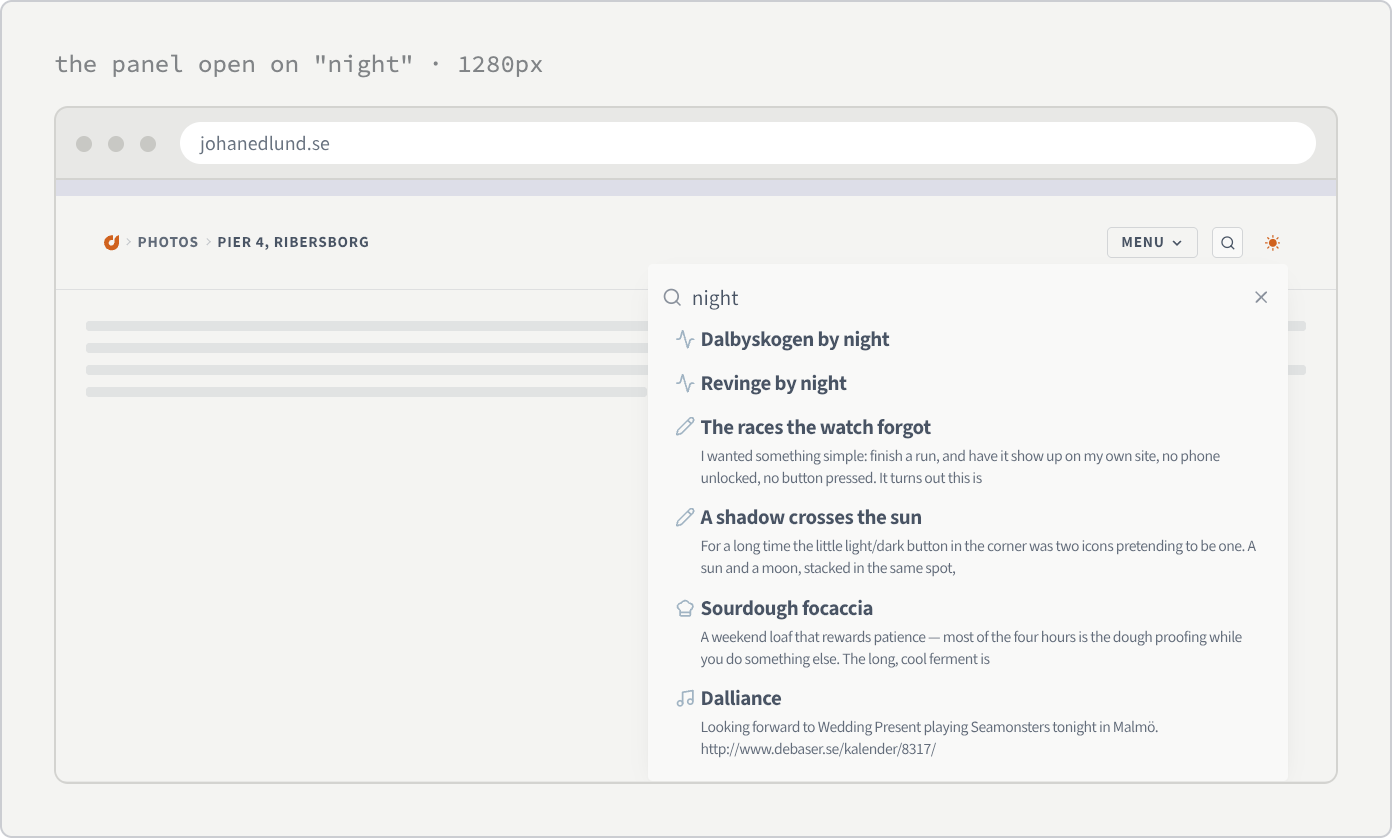
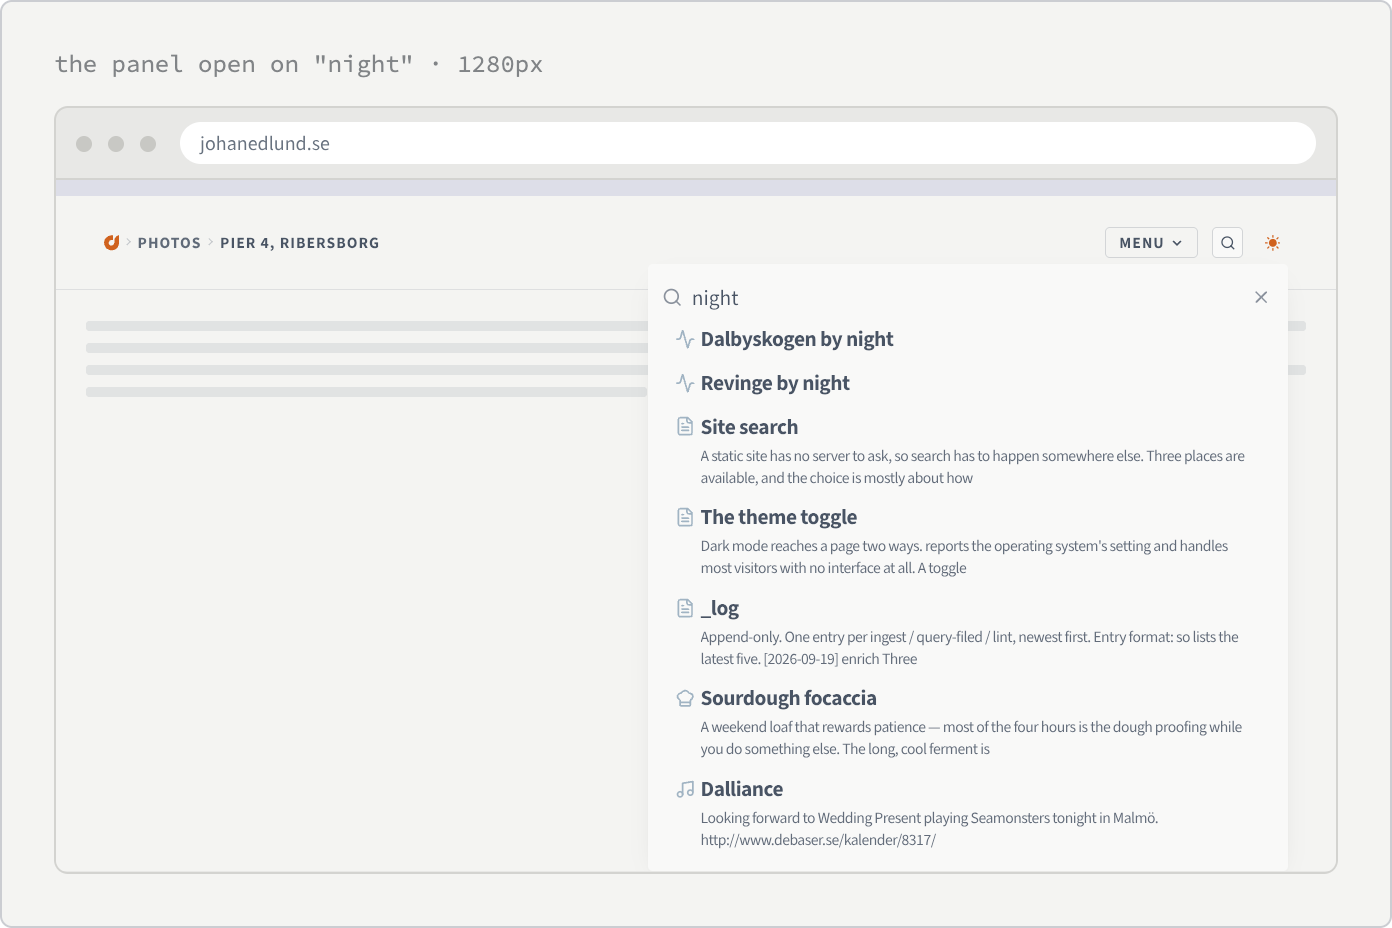
Re-shoot the site-search figure on hits that still exist
Two of the six sample rows were notes deleted yesterday, so the figure showed results for pages that are gone. The mockup now carries the real top hits for "night" read off /search.json today — seven, with three wiki pages where the two notes were — and the comment says it is a dated snapshot to re-read when a page is renamed or deleted.

Also corrects the count in the paragraph above it. 153 of the index has no body, and that has not changed; the total has, from 289 to 342, because the wiki joined the searchable types. So the bodyless share is now just under half rather than over it, and "the body-less majority" was no longer true.

diff --git a/src/wiki/_sources/site-search.html b/src/wiki/_sources/site-search.html
@@ -42,7 +42,7 @@
 <script>
   window.__mockupReady = false;
 
-  // The real top hits for "night", taken from a built /search.json — two of the six carry no body at all, which is the row shape the page is about.
+  // The real top hits for "night", read off a dev /search.json on 2026-09-20 — dev, so drafts are in it, which is how the earlier snapshot was taken too. Two of the seven carry no body at all, which is the row shape the page is about. ⚠ A snapshot: re-read it when a page here is renamed or deleted, then re-shoot.
   const HITS = [
     {
       "url": "/activities/2024-11-15-dalbyskogen-by-night/",
@@ -57,16 +57,22 @@
       "text": ""
     },
     {
-      "url": "/notes/the-races-the-watch-forgot/",
-      "title": "The races the watch forgot",
-      "type": "note",
-      "text": "I wanted something simple: finish a run, and have it show up on my own site, no phone unlocked, no button pressed. It turns out this is"
+      "url": "/wiki/site-search/",
+      "title": "Site search",
+      "type": "page",
+      "text": "A static site has no server to ask, so search has to happen somewhere else. Three places are available, and the choice is mostly about how"
     },
     {
-      "url": "/notes/a-shadow-crosses-the-sun/",
-      "title": "A shadow crosses the sun",
-      "type": "note",
-      "text": "For a long time the little light/dark button in the corner was two icons pretending to be one. A sun and a moon, stacked in the same spot,"
+      "url": "/wiki/the-theme-toggle/",
+      "title": "The theme toggle",
+      "type": "page",
+      "text": "Dark mode reaches a page two ways. reports the operating system's setting and handles most visitors with no interface at all. A toggle"
+    },
+    {
+      "url": "/wiki/log/",
+      "title": "_log",
+      "type": "page",
+      "text": "Append-only. One entry per ingest / query-filed / lint, newest first. Entry format: so lists the latest five. [2026-09-19] enrich Three"
     },
     {
       "url": "/recipes/sourdough-focaccia/",

diff --git a/src/wiki/Site search.md b/src/wiki/Site search.md
@@ -78,11 +78,11 @@ The rest of the strip is ordinary markdown: fenced code and images before links,
 
 Result rows are built client-side, so their per-type icons cannot be rendered per result. The partial emits one `<template data-search-icon="<type>">` per searchable type and the script clones the matching one.
 
-⚠ Over half the index has no body at all — 153 of 289 entries, mostly jams (82) and orienteering activities (63), which carry a title and front matter and nothing else. A row with only an icon and a title is therefore the common case, not the edge case, so the row omits the excerpt element entirely rather than rendering an empty one that leaves a ragged gap in the list. Design a result row against the body-less majority, not against the posts that happen to have prose.
+⚠ Close to half the index has no body at all — 153 of 342 entries counted on 2026-09-20, mostly jams (82) and orienteering activities (63), which carry a title and front matter and nothing else. It was 153 of 289 and a clear majority until the wiki joined the searchable types; the bodyless count has not moved, the bodied one grew around it. A row with only an icon and a title is still the common case rather than the edge case, so the row omits the excerpt element entirely rather than rendering an empty one that leaves a ragged gap in the list. Design a result row against the body-less half, not against the posts that happen to have prose.
 
 <figure class="popout" data-wiki-mockup>
-  <img eleventy:formats="webp,png" src="/assets/images/wiki/site-search-panel.png" alt="A browser window with the search panel open under the header. The field holds the word night; below it six results, each an icon and a bold title. The first two, both orienteering activities, are a single line with no excerpt; the four below them carry two lines of grey excerpt text." width="1392" height="838">
-  <figcaption>Six real hits for <code>night</code>. The top two rows are the common shape — icon and title, nothing else — and the row simply omits the excerpt element rather than leaving an empty one.</figcaption>
+  <img eleventy:formats="webp,png" src="/assets/images/wiki/site-search-panel.png" alt="A browser window with the search panel open under the header. The field holds the word night; below it seven results, each with a small type icon and a bold title. The first two, both orienteering activities, are a single line with no excerpt; the five below them — three wiki pages, a recipe and a jam — each carry two lines of grey excerpt text." width="1392" height="928">
+  <figcaption>Seven real hits for <code>night</code>. The top two rows are the common shape — icon and title, nothing else — and the row simply omits the excerpt element rather than leaving an empty one.</figcaption>
 </figure>
 
 ⚠ The include in `header.njk` is wrapped in an `{% if %}`, and the partial calls `{% svg %}`. That is the exact shape that once blanked the entire nav — see [[The interlinker's second render pass]]. It is safe only because `{% svg %}` is synchronous. If the panel ever renders empty with a green build, that is the first thing to check, not a template typo.
